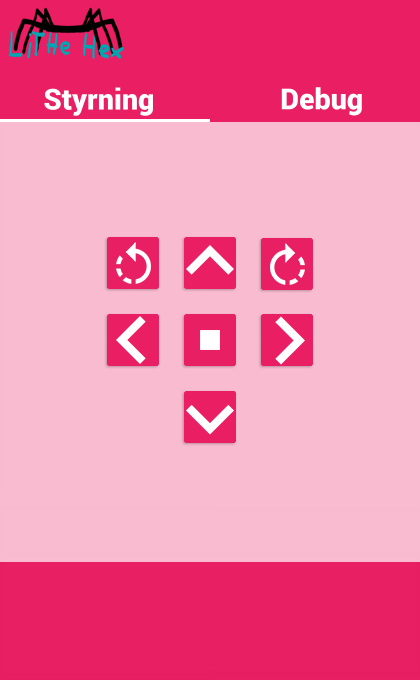
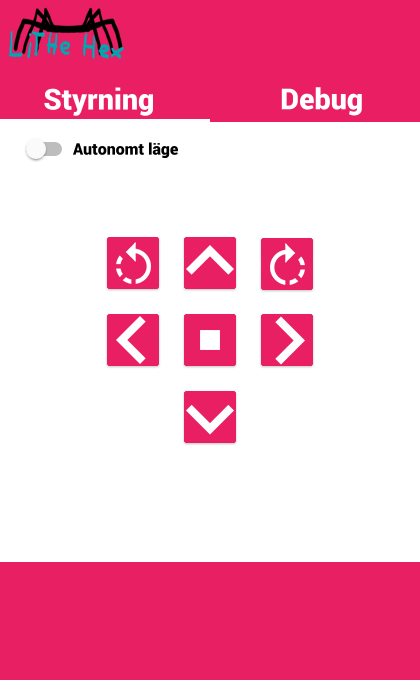
fixed hinderdetektion in designspec and added toggle in gui

diff --git a/documents/Designspecifikation/designspecifikation.tex b/documents/Designspecifikation/designspecifikation.tex
@@ -234,19 +234,6 @@
     till motorikenheten. 
     % sockets används mellan centralenhet - server, server - client.
 
-	\subsection{Hinderdetektion}
-	%För hinderdetektering finns det olika alternativ att använda. Det är möjligt att 
-	%detektera hinder med hjälp av en avståndsmätare som är vinklad nedåt, en IR-sensor 
-	%eller LIDAR kan användas som avståndsmätare. Att använda en IR-sensor är fördelaktigt 
-	%då IR-sensorer antagligen kommer att användas för att undvika väggar. En 
-	%LIDAR är en ny enhet och medför ett ytterligare, mer avancerat gränssnitt. Ett annat 
-	%alternativ för att upptäcka hinder är att läsa av det motstånd som benens servo kan 
-	%returnera tillsammans med övriga sensorer för att upptäcka när roboten går in i ett 
-	%hinder. 
-	Sensorenheten har en avståndsmätare som är riktad snett nedåt för att hitta kanten 
-	på hinder. En IR-sensor används som avståndssensor. Vi kommer redan ha  kod för kommunikation med
-	den  eftersom att IR-sensorer kommer att användas på andra ställen i konstruktionen. 
-	
 	\subsection{Kommunikation}
 	Centralenheten ska kommunicera med en dator över WiFi. Det är datorns webbläsare 
 	som kommer att ansluta till centralenhetens webbserver, det blir då möjligt att
